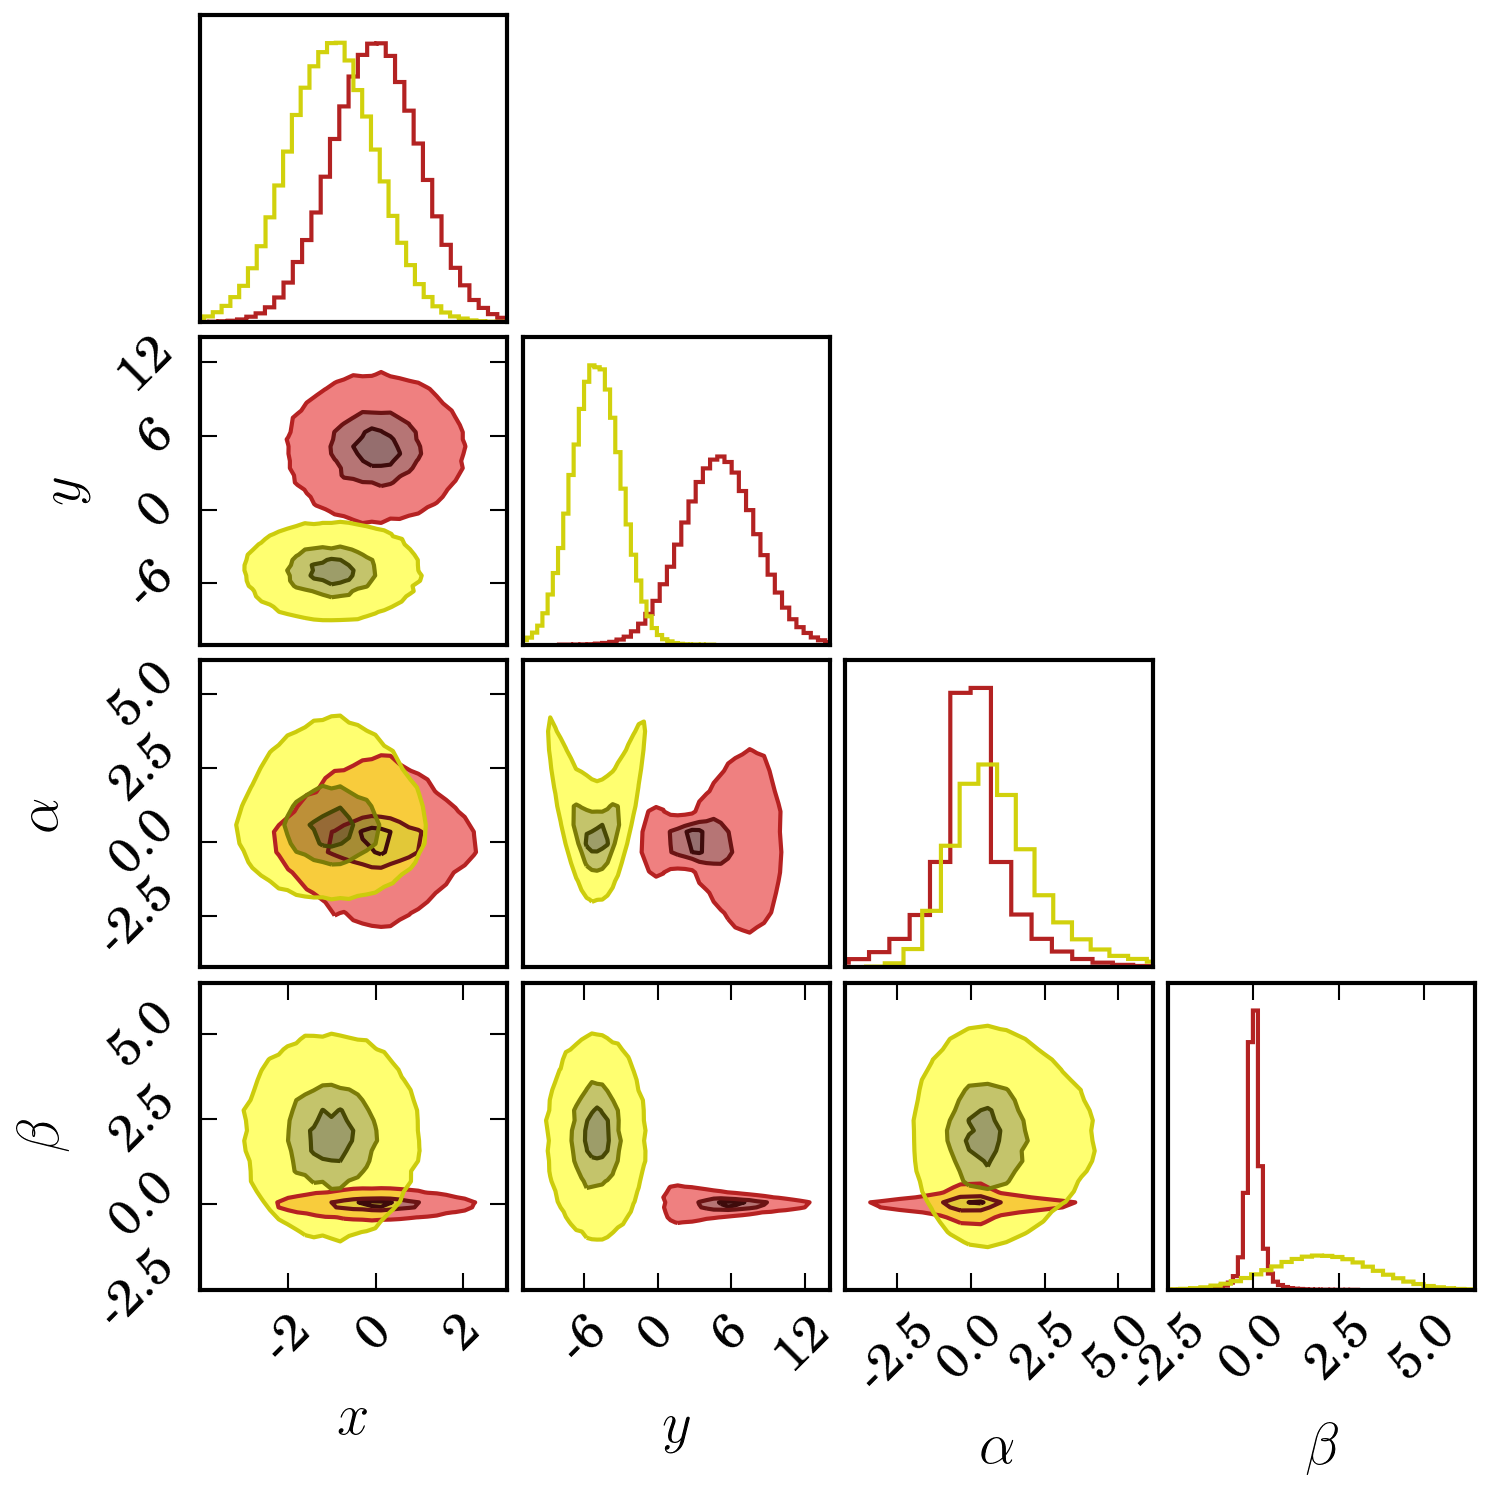
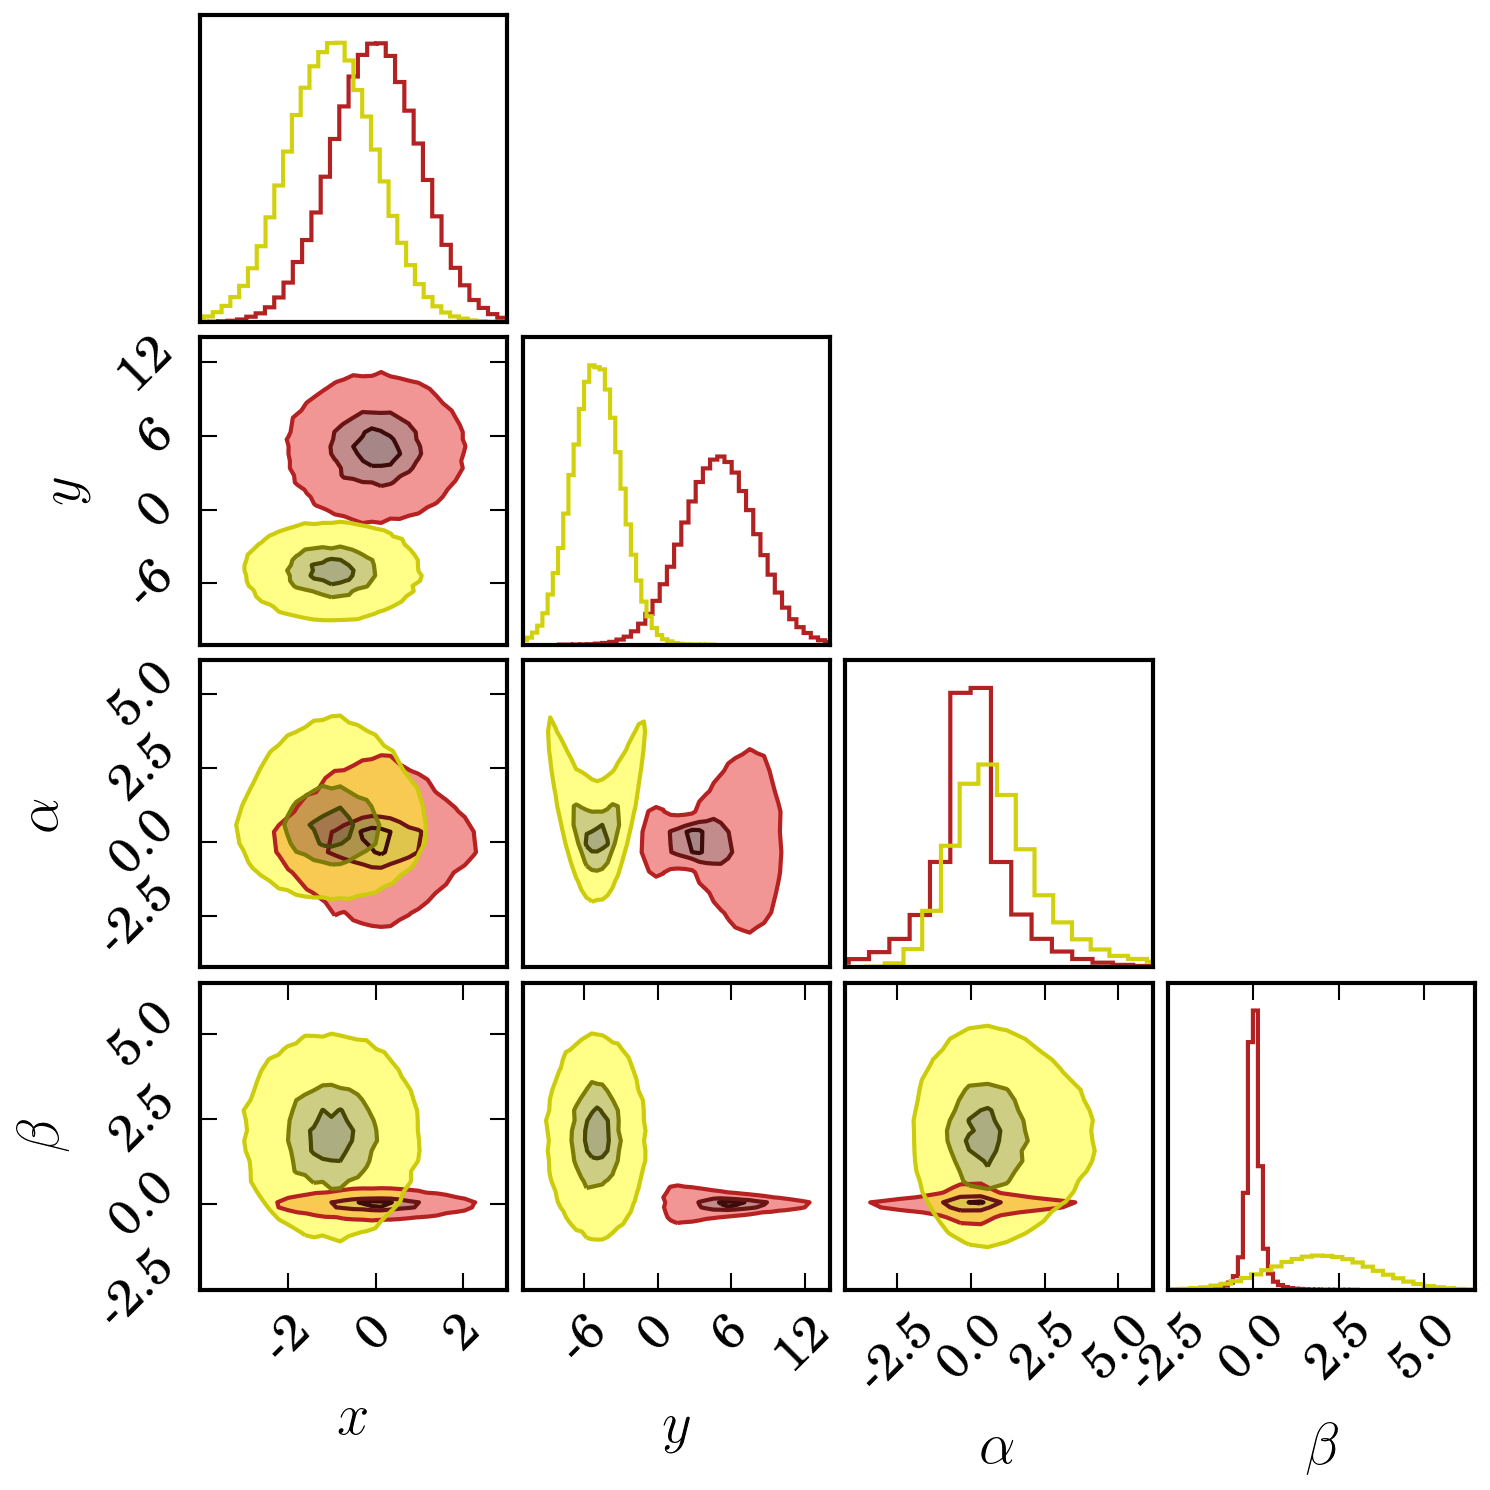
contourf improvements

diff --git a/dessn/chain/chain.py b/dessn/chain/chain.py
@@ -327,7 +327,7 @@ class ChainConsumer(object):
         b = self._clamp(b * scalefactor)
         return "#%02x%02x%02x" % (r, g, b)
         
-    def plot_contour(self, ax, x, y, bins=50, sigmas=None, colour='#222222', fit_values=None, force_contourf=False, cloud=True, contourf_alpha=1.0):
+    def plot_contour(self, ax, x, y, bins=50, sigmas=None, colour='#222222', fit_values=None, force_contourf=None, cloud=True, contourf_alpha=1.0):
         r""" Plots contours of the probability surface between two parameters
 
         Parameters
@@ -376,7 +376,7 @@ class ChainConsumer(object):
         if cloud and num_chains == 1:
             skip = x.size / 50000
             ax.scatter(x[::skip], y[::skip], s=10, alpha=0.2, c=colours[1], marker=".", edgecolors="none")
-        if len(self.chains) == 1 or force_contourf:
+        if (len(self.chains) == 1 and force_contourf is None) or force_contourf:
             ax.contourf(x_centers, y_centers, vals, levels=levels, colors=colours, alpha=contourf_alpha)
         ax.contour(x_centers, y_centers, vals, levels=levels, colors=colours2)
 
